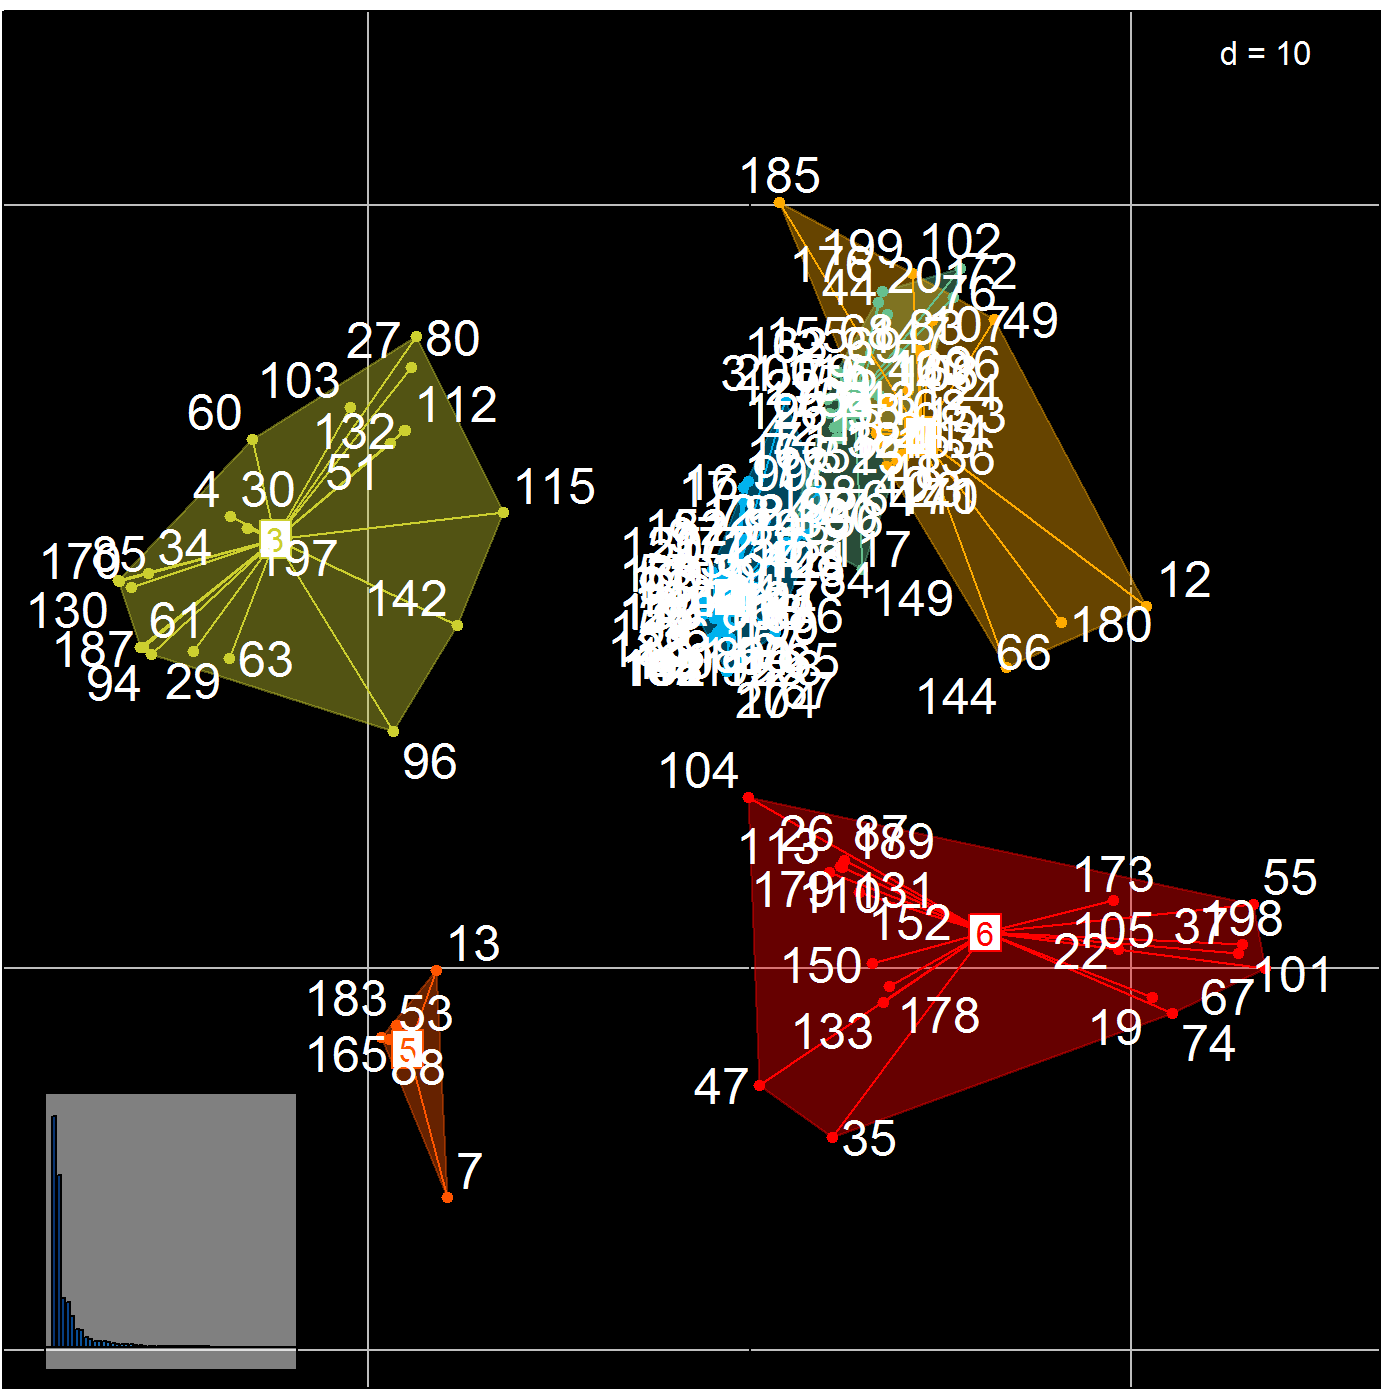
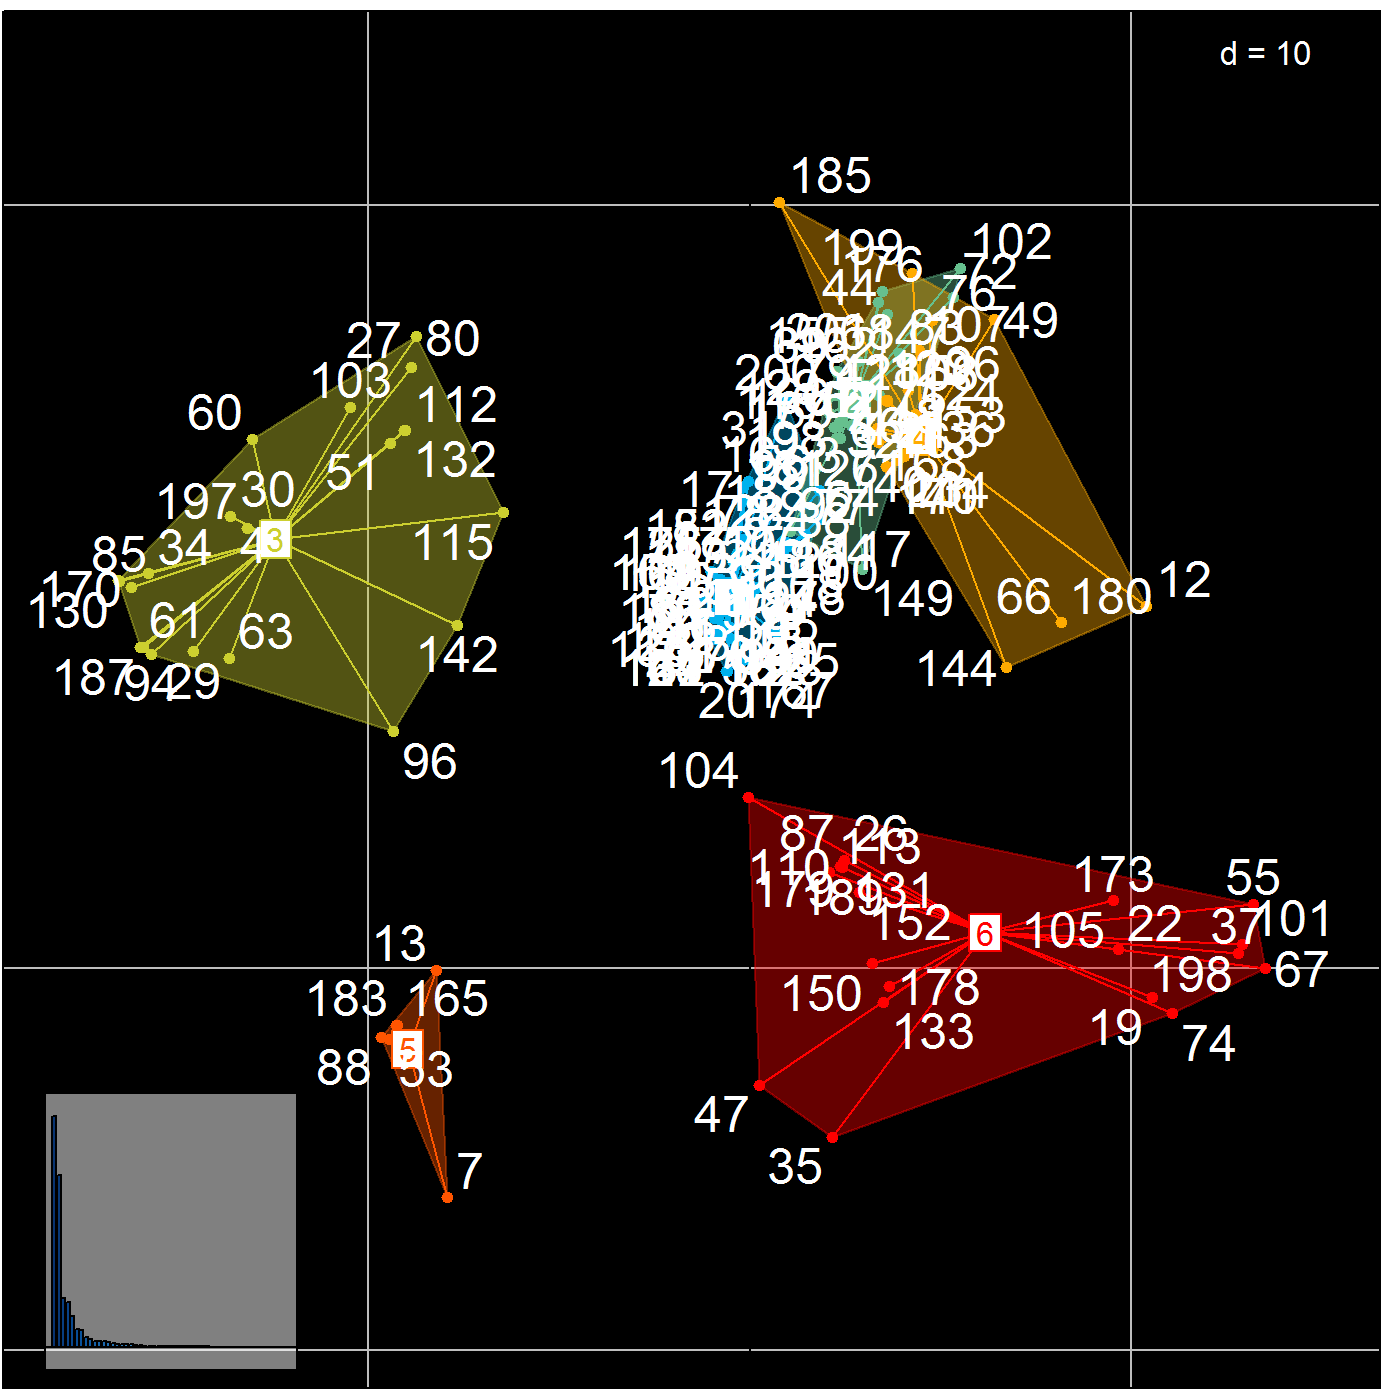
Updating Vignette to reflect recent changes

diff --git a/vignettes/treescape.md b/vignettes/treescape.md
@@ -1,7 +1,7 @@
 ---
 title: "Exploration of landscapes of phylogenetic trees"
 author: "Thibaut Jombart, Michelle Kendall"
-date: "2015-10-23"
+date: "2015-10-28"
 output: rmarkdown::html_vignette
 vignette: >
   %\VignetteEngine{knitr::rmarkdown}
@@ -61,13 +61,51 @@ Distributed datasets include:
 Exploring trees with *treescape*
 --------------
 
-We first load *treescape*, and packages required for graphics:
+We first load *treescape*, and the packages required for graphics:
 
 ```r
 library("treescape")
 library("ade4")
 library("adegenet")
+```
+
+```
+## 
+##    /// adegenet 2.0.0 is loaded ////////////
+## 
+##    > overview: '?adegenet'
+##    > tutorials/doc/questions: 'adegenetWeb()' 
+##    > bug reports/feature resquests: adegenetIssues()
+## 
+## 
+## 
+## Attaching package: 'adegenet'
+## 
+## The following object is masked from 'package:treescape':
+## 
+##     .render.server.info
+```
+
+```r
 library("adegraphics")
+```
+
+```
+## 
+## Attaching package: 'adegraphics'
+## 
+## The following objects are masked from 'package:ade4':
+## 
+##     kplotsepan.coa, s.arrow, s.class, s.corcircle, s.distri,
+##     s.image, s.label, s.logo, s.match, s.traject, s.value,
+##     table.value, triangle.class
+## 
+## The following object is masked from 'package:ape':
+## 
+##     zoom
+```
+
+```r
 library("ggplot2")
 ```
 
@@ -359,11 +397,8 @@ However, a more complete and accurate summary of the data can be given by findin
 This is achieved using the `groups` argument of `medTree`:
 
 ```r
-## identify 6 clusters
-groves <- findGroves(woodmiceTrees, nf=3, nclust=6)
-
-## find median trees
-res <- medTree(woodmiceTrees, groves$groups)
+## find median trees for the 6 clusters identified earlier:
+res <- medTree(woodmiceTrees, wm.groves$groups)
 
 ## there is one output per cluster
 names(res)
@@ -387,6 +422,8 @@ for(i in 1:length(med.trees)) plot(med.trees[[i]], main=paste("cluster",i),cex=1
 These trees exhibit a number of topological differences, e.g. in the placement of the **(1007S,1208S,0909S)** clade. 
 Performing this analysis enables the detection of distinct representative trees supported by data.
 
+Note that we supplied the function `medTree` with the multiPhylo list of trees. A more computationally efficient process (at the expense of using more memory) is to use the option `return.tree.vectors` in the initial `treescape` call, and then supply these vectors directly to `medTree`.
+In this case, the tree indices are returned by `medTree` but the trees are not (since they were not supplied).
 
 Emphasising the placement of certain tips or clades
 --------------
@@ -439,7 +476,7 @@ treeVec(tree)
 ```
 
 ```
-##  [1] 0 3 1 2 4 0 0 0 0 1 2 3 1 1 2 1 1 1 1 1 1
+##  [1] 0 2 1 3 3 0 0 0 0 1 2 2 1 1 4 1 1 1 1 1 1
 ```
 
 ```r
@@ -448,9 +485,9 @@ treeVec(tree,0.5)
 ```
 
 ```
-##  [1] 0.0000 2.1653 0.6671 1.4171 2.8537 0.0000 0.0000 0.0000 0.0000 0.6671
-## [11] 1.4171 2.1653 0.6671 0.6671 1.4171 0.5646 0.7231 0.6609 0.5466 0.6653
-## [21] 0.5655
+##  [1] 0.0000 1.4141 0.5559 2.2289 2.2289 0.0000 0.0000 0.0000 0.0000 0.5559
+## [11] 1.4141 1.4141 0.5559 0.5559 3.1939 0.9110 0.6134 0.7738 0.5656 0.7345
+## [21] 0.6529
 ```
 
 ```r
@@ -461,9 +498,9 @@ vecAsFunction(0.5)
 ```
 
 ```
-##  [1] 0.0000 2.1653 0.6671 1.4171 2.8537 0.0000 0.0000 0.0000 0.0000 0.6671
-## [11] 1.4171 2.1653 0.6671 0.6671 1.4171 0.5646 0.7231 0.6609 0.5466 0.6653
-## [21] 0.5655
+##  [1] 0.0000 1.4141 0.5559 2.2289 2.2289 0.0000 0.0000 0.0000 0.0000 0.5559
+## [11] 1.4141 1.4141 0.5559 0.5559 3.1939 0.9110 0.6134 0.7738 0.5656 0.7345
+## [21] 0.6529
 ```
 
 The metric -- the distance between two trees -- is the Euclidean distance between these vectors:
@@ -483,7 +520,7 @@ treeDist(tree_a,tree_b)
 ```
 
 ```
-## [1] 5.657
+## [1] 5.916
 ```
 
 ```r
@@ -492,7 +529,7 @@ treeDist(tree_a,tree_b,1)
 ```
 
 ```
-## [1] 3.544
+## [1] 3.583
 ```
 
 

diff --git a/README.md b/README.md
@@ -53,13 +53,51 @@ Distributed datasets include:
 Exploring trees with *treescape*
 --------------
 
-We first load *treescape*, and packages required for graphics:
+We first load *treescape*, and the packages required for graphics:
 
 ```r
 library("treescape")
 library("ade4")
 library("adegenet")
+```
+
+```
+## 
+##    /// adegenet 2.0.0 is loaded ////////////
+## 
+##    > overview: '?adegenet'
+##    > tutorials/doc/questions: 'adegenetWeb()' 
+##    > bug reports/feature resquests: adegenetIssues()
+## 
+## 
+## 
+## Attaching package: 'adegenet'
+## 
+## The following object is masked from 'package:treescape':
+## 
+##     .render.server.info
+```
+
+```r
 library("adegraphics")
+```
+
+```
+## 
+## Attaching package: 'adegraphics'
+## 
+## The following objects are masked from 'package:ade4':
+## 
+##     kplotsepan.coa, s.arrow, s.class, s.corcircle, s.distri,
+##     s.image, s.label, s.logo, s.match, s.traject, s.value,
+##     table.value, triangle.class
+## 
+## The following object is masked from 'package:ape':
+## 
+##     zoom
+```
+
+```r
 library("ggplot2")
 ```
 
@@ -348,11 +386,8 @@ However, a more complete and accurate summary of the data can be given by findin
 This is achieved using the `groups` argument of `medTree`:
 
 ```r
-## identify 6 clusters
-groves <- findGroves(woodmiceTrees, nf=3, nclust=6)
-
-## find median trees
-res <- medTree(woodmiceTrees, groves$groups)
+## find median trees for the 6 clusters identified earlier:
+res <- medTree(woodmiceTrees, wm.groves$groups)
 
 ## there is one output per cluster
 names(res)
@@ -376,6 +411,8 @@ for(i in 1:length(med.trees)) plot(med.trees[[i]], main=paste("cluster",i),cex=1
 These trees exhibit a number of topological differences, e.g. in the placement of the **(1007S,1208S,0909S)** clade. 
 Performing this analysis enables the detection of distinct representative trees supported by data.
 
+Note that we supplied the function `medTree` with the multiPhylo list of trees. A more computationally efficient process (at the expense of using more memory) is to use the option `return.tree.vectors` in the initial `treescape` call, and then supply these vectors directly to `medTree`.
+In this case, the tree indices are returned by `medTree` but the trees are not (since they were not supplied).
 
 Emphasising the placement of certain tips or clades
 --------------
@@ -428,7 +465,7 @@ treeVec(tree)
 ```
 
 ```
-##  [1] 0 3 1 2 4 0 0 0 0 1 2 3 1 1 2 1 1 1 1 1 1
+##  [1] 0 2 1 3 3 0 0 0 0 1 2 2 1 1 4 1 1 1 1 1 1
 ```
 
 ```r
@@ -437,9 +474,9 @@ treeVec(tree,0.5)
 ```
 
 ```
-##  [1] 0.0000 2.1653 0.6671 1.4171 2.8537 0.0000 0.0000 0.0000 0.0000 0.6671
-## [11] 1.4171 2.1653 0.6671 0.6671 1.4171 0.5646 0.7231 0.6609 0.5466 0.6653
-## [21] 0.5655
+##  [1] 0.0000 1.4141 0.5559 2.2289 2.2289 0.0000 0.0000 0.0000 0.0000 0.5559
+## [11] 1.4141 1.4141 0.5559 0.5559 3.1939 0.9110 0.6134 0.7738 0.5656 0.7345
+## [21] 0.6529
 ```
 
 ```r
@@ -450,9 +487,9 @@ vecAsFunction(0.5)
 ```
 
 ```
-##  [1] 0.0000 2.1653 0.6671 1.4171 2.8537 0.0000 0.0000 0.0000 0.0000 0.6671
-## [11] 1.4171 2.1653 0.6671 0.6671 1.4171 0.5646 0.7231 0.6609 0.5466 0.6653
-## [21] 0.5655
+##  [1] 0.0000 1.4141 0.5559 2.2289 2.2289 0.0000 0.0000 0.0000 0.0000 0.5559
+## [11] 1.4141 1.4141 0.5559 0.5559 3.1939 0.9110 0.6134 0.7738 0.5656 0.7345
+## [21] 0.6529
 ```
 
 The metric -- the distance between two trees -- is the Euclidean distance between these vectors:
@@ -472,7 +509,7 @@ treeDist(tree_a,tree_b)
 ```
 
 ```
-## [1] 5.657
+## [1] 5.916
 ```
 
 ```r
@@ -481,7 +518,7 @@ treeDist(tree_a,tree_b,1)
 ```
 
 ```
-## [1] 3.544
+## [1] 3.583
 ```
 
 
